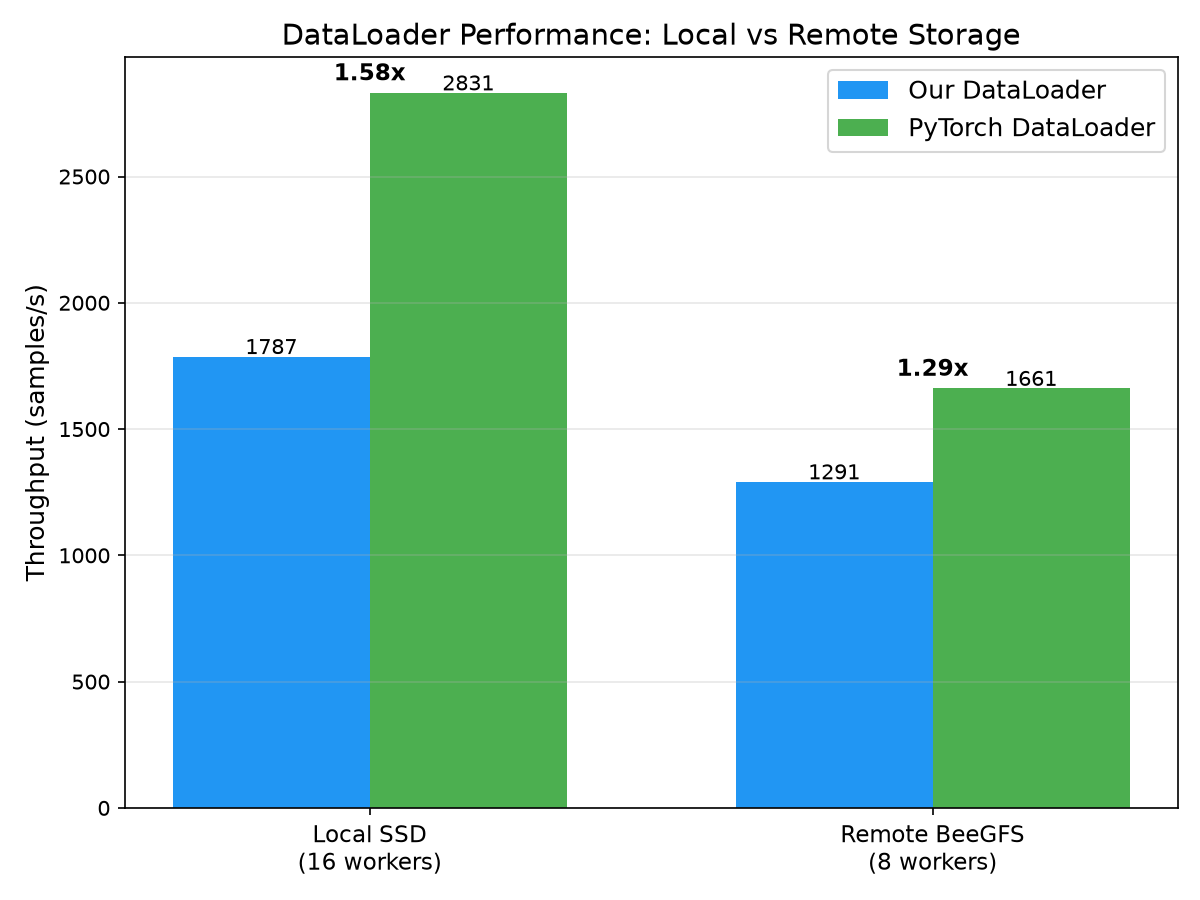
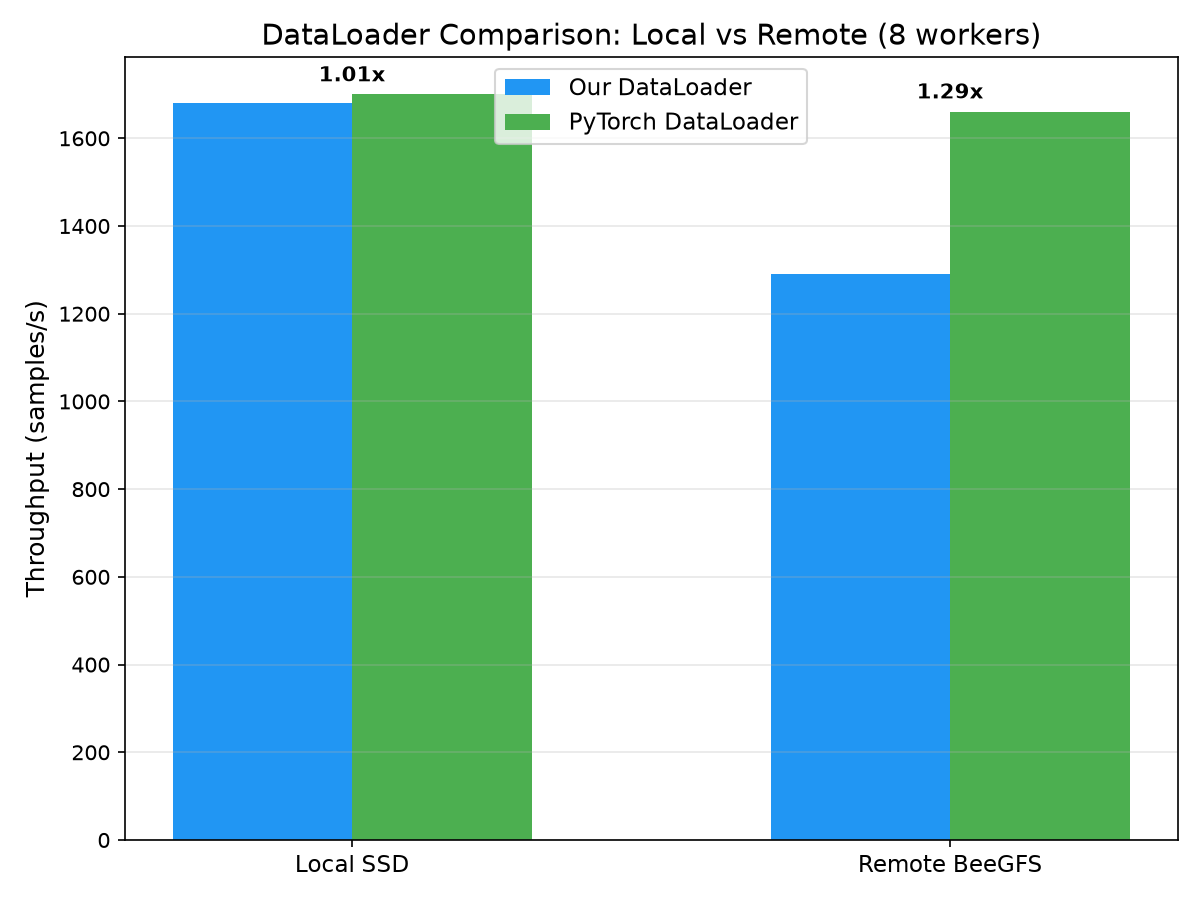
Fix plots: linear X-axis, correct scaling analysis, local vs remote at 8 workers

diff --git a/tests/plot_fixed.py b/tests/plot_fixed.py
@@ -1,0 +1,79 @@
+#!/usr/bin/env python3
+"""Corrected plots with linear X-axis."""
+import matplotlib
+matplotlib.use('Agg')
+import matplotlib.pyplot as plt
+import numpy as np
+
+workers = [1, 2, 4, 8, 16, 32]
+ours = {
+    16:  [260.9, 529.2, 949.1, 1653.6, 1709.8, 1539.0],
+    256: [274.2, 540.0, 987.5, 1681.0, 1676.6, 1547.2],
+    512: [272.5, 533.3, 1012.8, 1723.4, 1787.0, 1501.2],
+}
+
+# Plot 1: Throughput vs Workers (linear X)
+fig, ax = plt.subplots(figsize=(10, 6))
+for bs, vals in ours.items():
+    ax.plot(workers, vals, 'o-', label=f'BS={bs}', linewidth=2, markersize=8)
+
+# Add ideal linear scaling line from 1-worker baseline
+ideal_x = [1, 2, 4, 8, 16, 32]
+ideal_y = [ours[16][0] * w for w in ideal_x]
+ax.plot(ideal_x, ideal_y, '--', color='gray', alpha=0.6, label='Linear scaling')
+
+ax.set_xlabel('Number of Workers', fontsize=12)
+ax.set_ylabel('Throughput (samples/s)', fontsize=12)
+ax.set_title('DataLoader Throughput vs Workers (Parquet, 100k images, A100)', fontsize=14)
+ax.legend(fontsize=11)
+ax.grid(True, alpha=0.3)
+ax.set_xticks(workers)
+plt.tight_layout()
+plt.savefig('/netscratch/nague/plot_throughput_linear.png', dpi=150)
+print("Saved: plot_throughput_linear.png")
+
+# Plot 2: Speedup ratio vs ideal
+fig, ax = plt.subplots(figsize=(10, 6))
+for bs, vals in ours.items():
+    base = vals[0]
+    speedup = [v / base for v in vals]
+    ax.plot(workers, speedup, 'o-', label=f'BS={bs}', linewidth=2, markersize=8)
+
+ax.plot(ideal_x, ideal_x, '--', color='gray', alpha=0.6, label='Linear scaling')
+ax.set_xlabel('Number of Workers', fontsize=12)
+ax.set_ylabel('Speedup (x vs 1 worker)', fontsize=12)
+ax.set_title('Scaling Efficiency (linear X-axis)', fontsize=14)
+ax.legend(fontsize=11)
+ax.grid(True, alpha=0.3)
+ax.set_xticks(workers)
+plt.tight_layout()
+plt.savefig('/netscratch/nague/plot_speedup_linear.png', dpi=150)
+print("Saved: plot_speedup_linear.png")
+
+# Plot 3: Local vs Remote (same workers: 8)
+fig, ax = plt.subplots(figsize=(8, 6))
+categories = ['Local SSD', 'Remote BeeGFS']
+ours_vals = [1681, 1291]
+pytorch_vals = [1700, 1661]
+
+x = np.arange(len(categories))
+width = 0.3
+ax.bar(x - width/2, ours_vals, width, label='Our DataLoader', color='#2196F3')
+ax.bar(x + width/2, pytorch_vals, width, label='PyTorch DataLoader', color='#4CAF50')
+
+for i, (o, p) in enumerate(zip(ours_vals, pytorch_vals)):
+    ax.text(x[i], max(o, p) + 30, f'{p/o:.2f}x', ha='center', fontweight='bold')
+
+ax.set_ylabel('Throughput (samples/s)', fontsize=12)
+ax.set_title('DataLoader Comparison: Local vs Remote (8 workers)', fontsize=14)
+ax.set_xticks(x)
+ax.set_xticklabels(categories, fontsize=11)
+ax.legend(fontsize=11)
+ax.grid(True, alpha=0.3, axis='y')
+plt.tight_layout()
+plt.savefig('/netscratch/nague/plot_local_vs_remote.png', dpi=150)
+print("Saved: plot_local_vs_remote.png")
+
+import os
+os.system('cp /netscratch/nague/plot_*.png ~/bachelor-project/docs/images/')
+print("Copied to docs/images/")